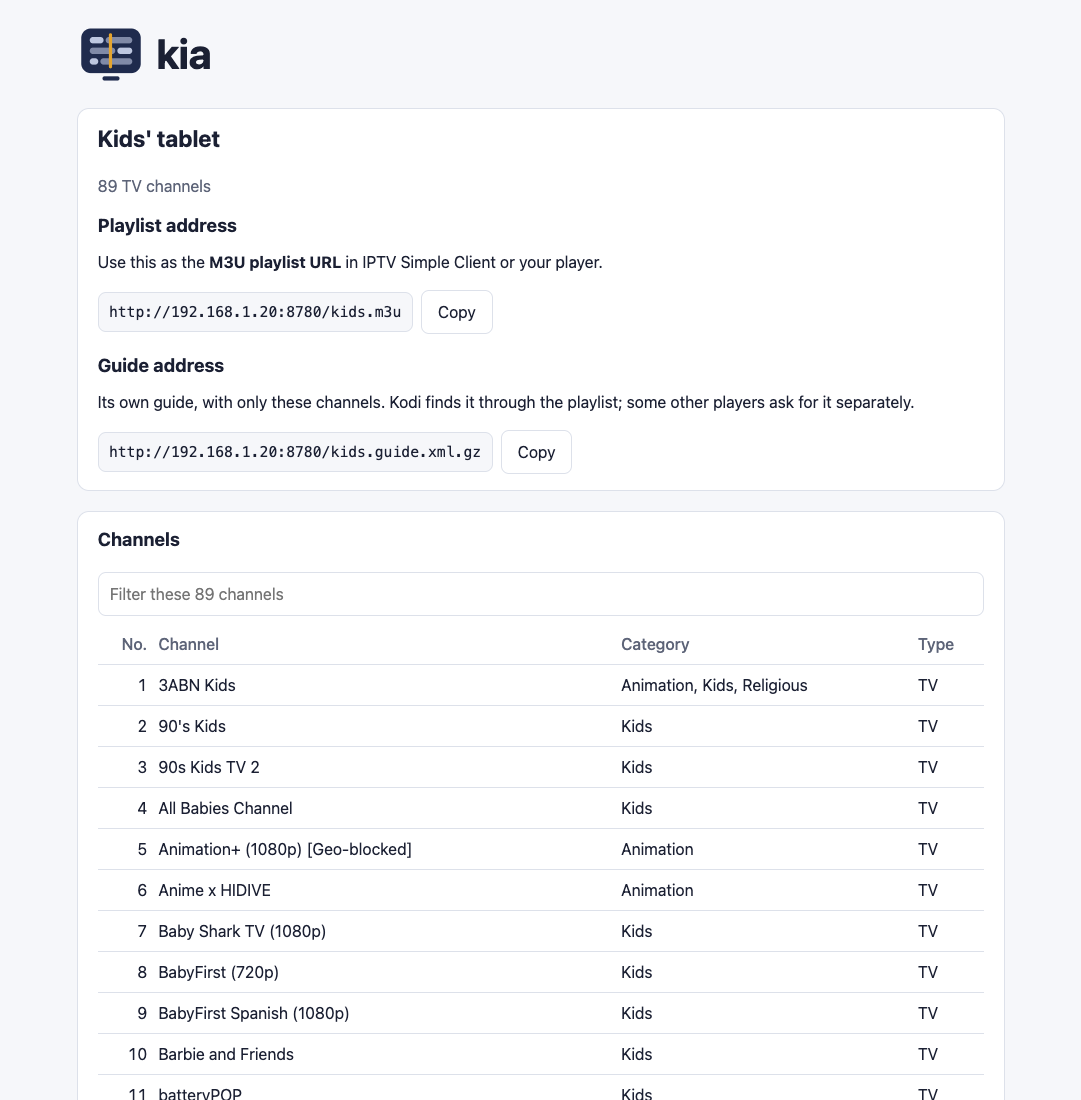
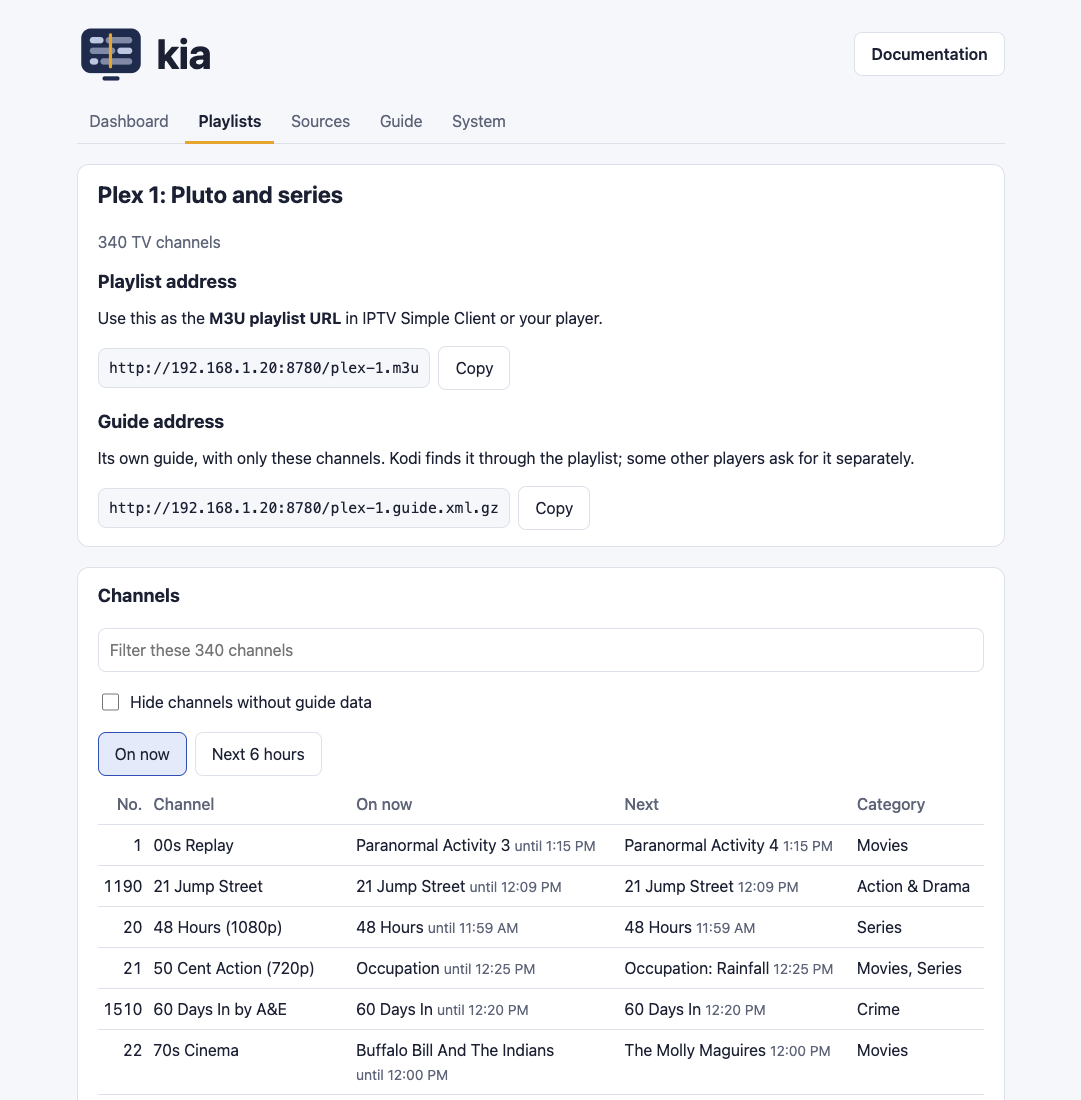
Docs: diagrams and new Dashboard screenshots (#48)
## What

- Mermaid diagrams: the nightly steps (how-it-works), how a Pluto TV
channel plays through kia (sequence diagram), the setups, the
Dashboard's two ports (secure page), and profiles. The Plex diagrams
came in #46.
- New Dashboard screenshots for how-it-works and profiles, taken from
real data with example addresses.

## Checked

- Every diagram rendered with mermaid-cli in light and dark themes. The
overview runs top to bottom so its text stays readable, and GitHub
renders it in dark mode.
- `pytest` (236 passed; the doc tests check links and images).

🤖 Generated with [Claude Code](https://claude.com/claude-code)

---------

diff --git a/docs/how-it-works.md b/docs/how-it-works.md
@@ -2,6 +2,20 @@
 
 Every night (`KIA_RUN_AT`), kia runs four steps, and it refreshes the guide every few hours in between ([details](#4-build-the-guide-kia-guide)). You can also run them by hand, e.g. `docker compose exec kia python3 -m kia check`.
 
+```mermaid
+flowchart TB
+  src["Channel sources<br>playlists and radio"] --> check["1. Check streams"]
+  check --> map["2. Match channels<br>to guide sites"]
+  map --> grab["3. Download<br>guide data"]
+  grab --> build["4. Build the guide"]
+  check --> m3u["curated.m3u<br>and your playlists"]
+  build --> xml["guide.xml.gz<br>and their guides"]
+  m3u --> web["kia's web server<br>port 8780"]
+  xml --> web
+  web --> players["Kodi and<br>other players"]
+  web --> dash["The Dashboard"]
+```
+
 ## 1. Check streams (`kia check`)
 
 Every stream in your playlists is opened with `ffprobe`. A TV stream counts as working if it opens and has video; a radio station needs only audio. Some servers turn away anything that isn't a media player, or more than a couple of connections from one place, so kia introduces itself as VLC (the player most widely accepted), tests at most two streams per server at a time, and starts tests on the same server at least a tenth of a second apart. jmp2.uk, which carries about 750 Pluto TV, Samsung TV Plus, and Plex streams, allows six at a time (`per_host_limits`). Streams that fail a name lookup or time out get a second, slower try before they count as failed. Only network addresses (`http`, `https`, `rtmp`, `rtsp`) are tested; anything else in a playlist, such as a file on this computer, is marked dead.
@@ -60,6 +74,23 @@ So kia plays Pluto channels itself. The playlist points each Pluto channel at ki
 - keeps its own list of the channel's pieces in time order, leaves out repeats and pieces Pluto already sent, and opens a new session if Pluto goes back;
 - copies each piece onto one steady clock, so players never see it start over. ffmpeg only copies (it doesn't re-encode), so this is light work.
 
+```mermaid
+sequenceDiagram
+  participant P as Player
+  participant K as kia
+  participant T as Pluto TV
+  P->>K: Open the channel
+  K->>T: Start a session, with Pluto putting in the ads
+  T-->>K: The channel's list of pieces
+  K-->>P: kia's own list, in order, with steady numbering
+  loop Every few seconds
+    P->>K: Next piece
+    K->>T: Fetch it
+    K->>K: Skip repeats, move it onto one clock
+    K-->>P: The piece
+  end
+```
+
 kia fetches each piece from Pluto when a player first asks for it, so it uses about as much of your internet connection as watching Pluto directly. Everyone watching a channel shares its session and its pieces, and kia lets a channel go two minutes after the last player stops. When Pluto goes back to pieces kia already sent, kia waits for new ones instead of playing them again, so the picture can pause for up to half a minute. If Pluto won't open a session, kia plays Pluto's plain link instead, which may freeze at breaks, and tries again every five minutes. Timeshift (pausing and rewinding live TV) keeps working, because it happens in the player.
 
 The playlist uses the address in `KIA_PUBLIC_URL` for Pluto channels, so every device that plays them must be able to reach it; when it isn't set, Pluto channels keep their own links. `KIA_PLUTO_RELAY=false` in `.env` turns this off, and the playlist then has Pluto's own links. While Pluto channels play, the Dashboard's **System** page shows each one, its session, and any recent problems. The same is in `pluto.json` for scripts.
@@ -81,7 +112,7 @@ The menu at the top leads to the other pages:
 
 Every page has the same menu at the top, a **Documentation** button that opens these docs, and a link to the [troubleshooting guide](troubleshooting.md) at the bottom.
 
-![kia's Dashboard showing everything working, the channel counts, and three playlists, each with its address and a Copy button](../images/kia-status-screenshot.png)
+![kia's Dashboard: the menu, a banner saying everything's working, the Getting started checklist, the channel counts, and four playlists, each with its address and a Copy button](../images/kia-status-screenshot.png)
 
 The banner at the top shows the state of the last refresh:
 

diff --git a/docs/profiles.md b/docs/profiles.md
@@ -6,6 +6,13 @@ Each profile also gets its own program guide with only its channels, so a slow d
 
 You can make profiles on kia's Dashboard or by editing a file. Both change the same file, `profiles/profiles.toml`, so you can switch between them.
 
+```mermaid
+flowchart LR
+  all["Everything<br>curated.m3u"] --> kids["kids.m3u<br>and its guide"]
+  all --> lr["living-room.m3u<br>and its guide"]
+  all --> tv["tv.m3u<br>TV only"]
+```
+
 ## On the Dashboard
 
 1. Find kia's password. kia made one when it first started; in the kia folder, run:
@@ -31,7 +38,7 @@ You can make profiles on kia's Dashboard or by editing a file. Both change the s
 
 5. On the device, use that address as the **M3U playlist URL** in IPTV Simple Client (or your player), instead of `curated.m3u`. Kodi finds the playlist's own guide by itself. If another player asks for a guide address, it's on the same page.
 
-![A playlist's page on the Dashboard: its playlist and guide addresses with Copy buttons, and its channels numbered from 1](../images/kia-playlist-screenshot.png)
+![A playlist's page on the Dashboard: its playlist and guide addresses with Copy buttons, and its channels with what's on now and next](../images/kia-playlist-screenshot.png)
 
 To change or delete a playlist later, open it from the secure Dashboard and choose **Edit this playlist**. The browser tab remembers the password until you close it.
 

diff --git a/docs/secure-page.md b/docs/secure-page.md
@@ -9,6 +9,14 @@ kia's Dashboard is on two ports:
 
 Changes are accepted only on the secure (`https://`) page, so the password never crosses your network in the clear. Playlists and guides stay on plain HTTP because Kodi and most players refuse a certificate they don't trust, and kia's own certificate is one of those.
 
+```mermaid
+flowchart LR
+  players["Kodi and other players"] -- "http, port 8780" --> web["kia's web server"]
+  look["You, looking"] -- "http, port 8780" --> web
+  change["You, making changes"] -- "https, port 8743<br>with the password" --> web
+  web -- "changes, only from https" --> kia["kia"]
+```
+
 ## The browser warning
 
 The first time you open the secure page, your browser says the connection isn't private or the certificate isn't trusted. That's because kia made the certificate itself (it's "self-signed"), instead of getting it from a company your browser knows. The connection is still encrypted.

diff --git a/CHANGELOG.md b/CHANGELOG.md
@@ -63,6 +63,7 @@
 
 ### Docs
 
+- Diagrams show the nightly steps, how Pluto TV channels play through kia, the setups, the Dashboard's two ports, and profiles. The Dashboard screenshots are new.
 - The Plex guide is rewritten and tested end to end: Threadfin started with kia, one or two tuners, the Threadfin settings that work (including FFmpeg options that pass on one stream instead of every quality at once), adding the tuners in Plex, diagrams and screenshots, and fixes for what goes wrong, such as a Plex Web bug in Firefox.
 - The 48 kHz audio note covers Kodi's Fixed output setting, and a TV left at the wrong rate after Kodi quits.
 - The quick install now waits for the first refresh before setting up Kodi, explains how to open a terminal, and includes the Raspberry Pi settings. The installer prints full links to the guides.

diff --git a/docs/setups.md b/docs/setups.md
@@ -2,6 +2,16 @@
 
 The setups below differ only in who can reach kia and how much work the machine does. Each recipe lists the `.env` lines to change from `.env.example`.
 
+```mermaid
+flowchart LR
+  subgraph home["At home"]
+    srv["kia on an always-on machine"]
+    tvs["TVs and streaming boxes"] --> srv
+    devices["Computers, phones, tablets"] --> srv
+  end
+  laptop["A laptop with its own kia"] -. "takes the guide from home<br>when it can reach it" .-> srv
+```
+
 ## Home server
 
 One always-on machine (a Linux box, NAS, or mini PC) serves every TV, phone, and computer in the house, including ones that can't run anything themselves, like Fire TV, Android TV, or Apple TV.
